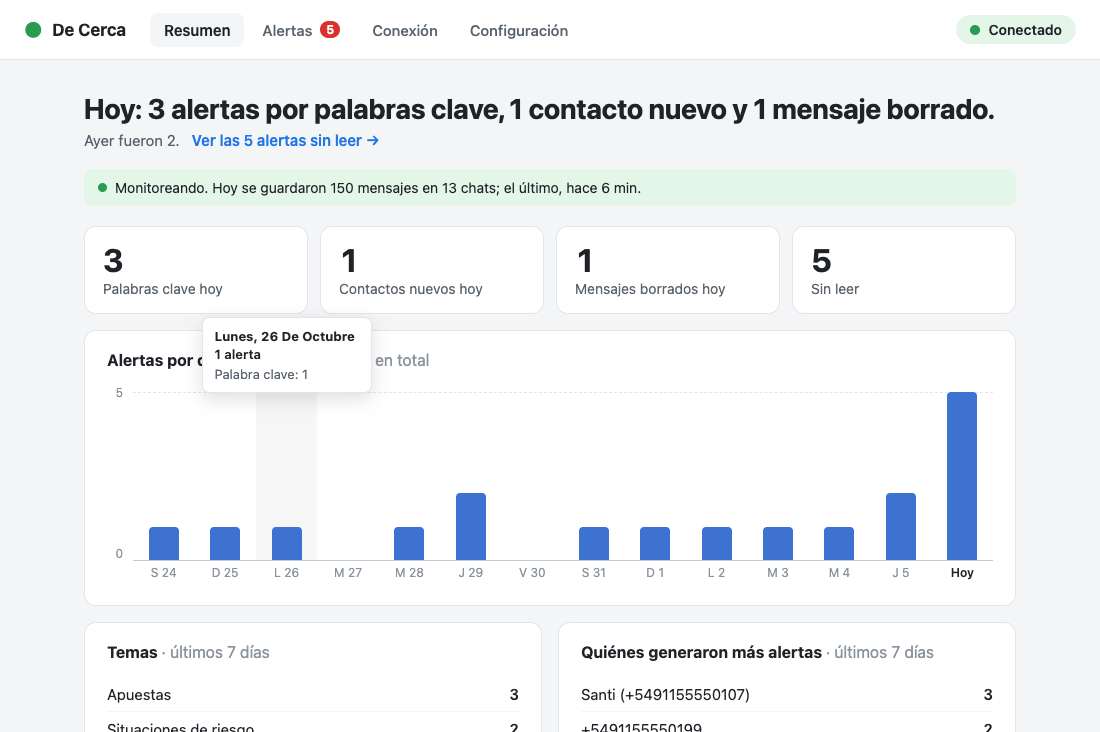
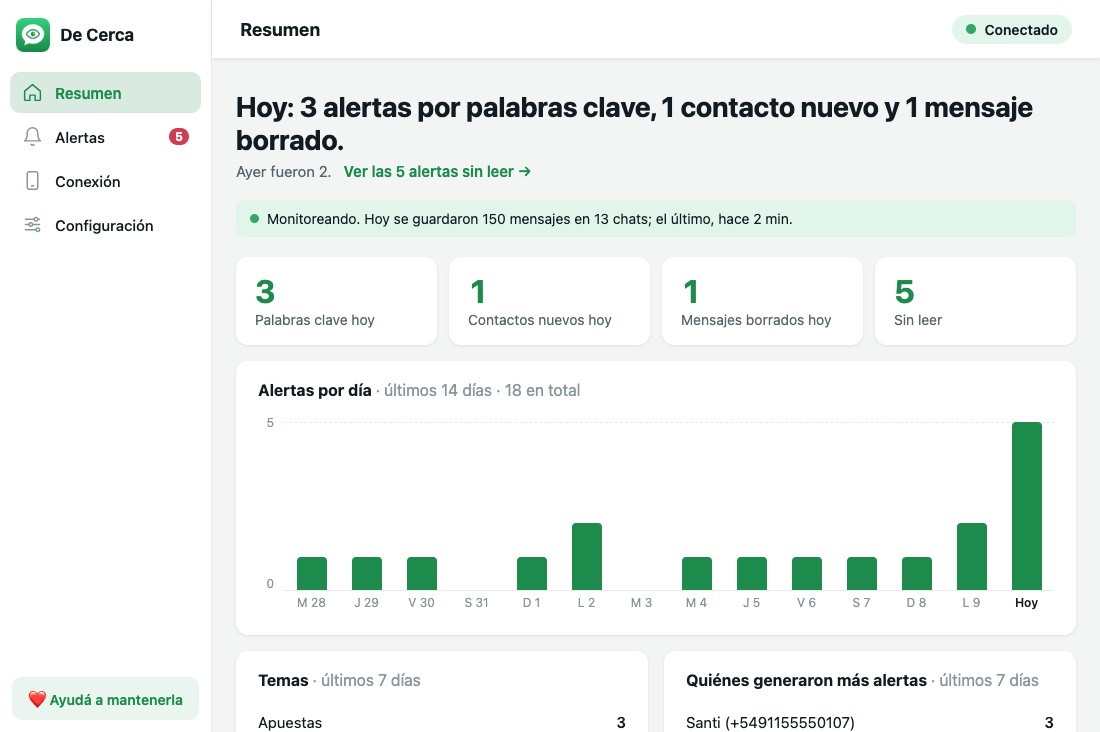
Capturas con el diseño nuevo

diff --git a/index.html b/index.html
@@ -54,7 +54,7 @@
           <p class="nota">Versión 0.3.1 · Necesita Google Chrome (en Windows también sirve Edge).</p>
         </div>
         <figure class="captura portada-captura">
-          <img src="img/captura-resumen.png" alt="Pantalla de resumen de la app: alertas de hoy, actividad y gráfico de las últimas dos semanas" width="1100" height="760" />
+          <img src="img/captura-resumen.png" alt="Pantalla de resumen de la app: alertas de hoy, actividad y gráfico de las últimas dos semanas" width="1100" height="732" />
         </figure>
       </div>
     </section>
@@ -98,7 +98,7 @@
         </ul>
 
         <figure class="captura captura-ancha">
-          <img src="img/captura-alertas.png" alt="Bandeja de alertas con una alerta abierta que muestra el mensaje y la conversación alrededor" width="1100" height="760" loading="lazy" />
+          <img src="img/captura-alertas.png" alt="Bandeja de alertas con una alerta abierta que muestra el mensaje y la conversación alrededor" width="1100" height="732" loading="lazy" />
           <figcaption>Cada aviso muestra el mensaje y la conversación de ese momento, para entender el contexto.</figcaption>
         </figure>
       </div>
